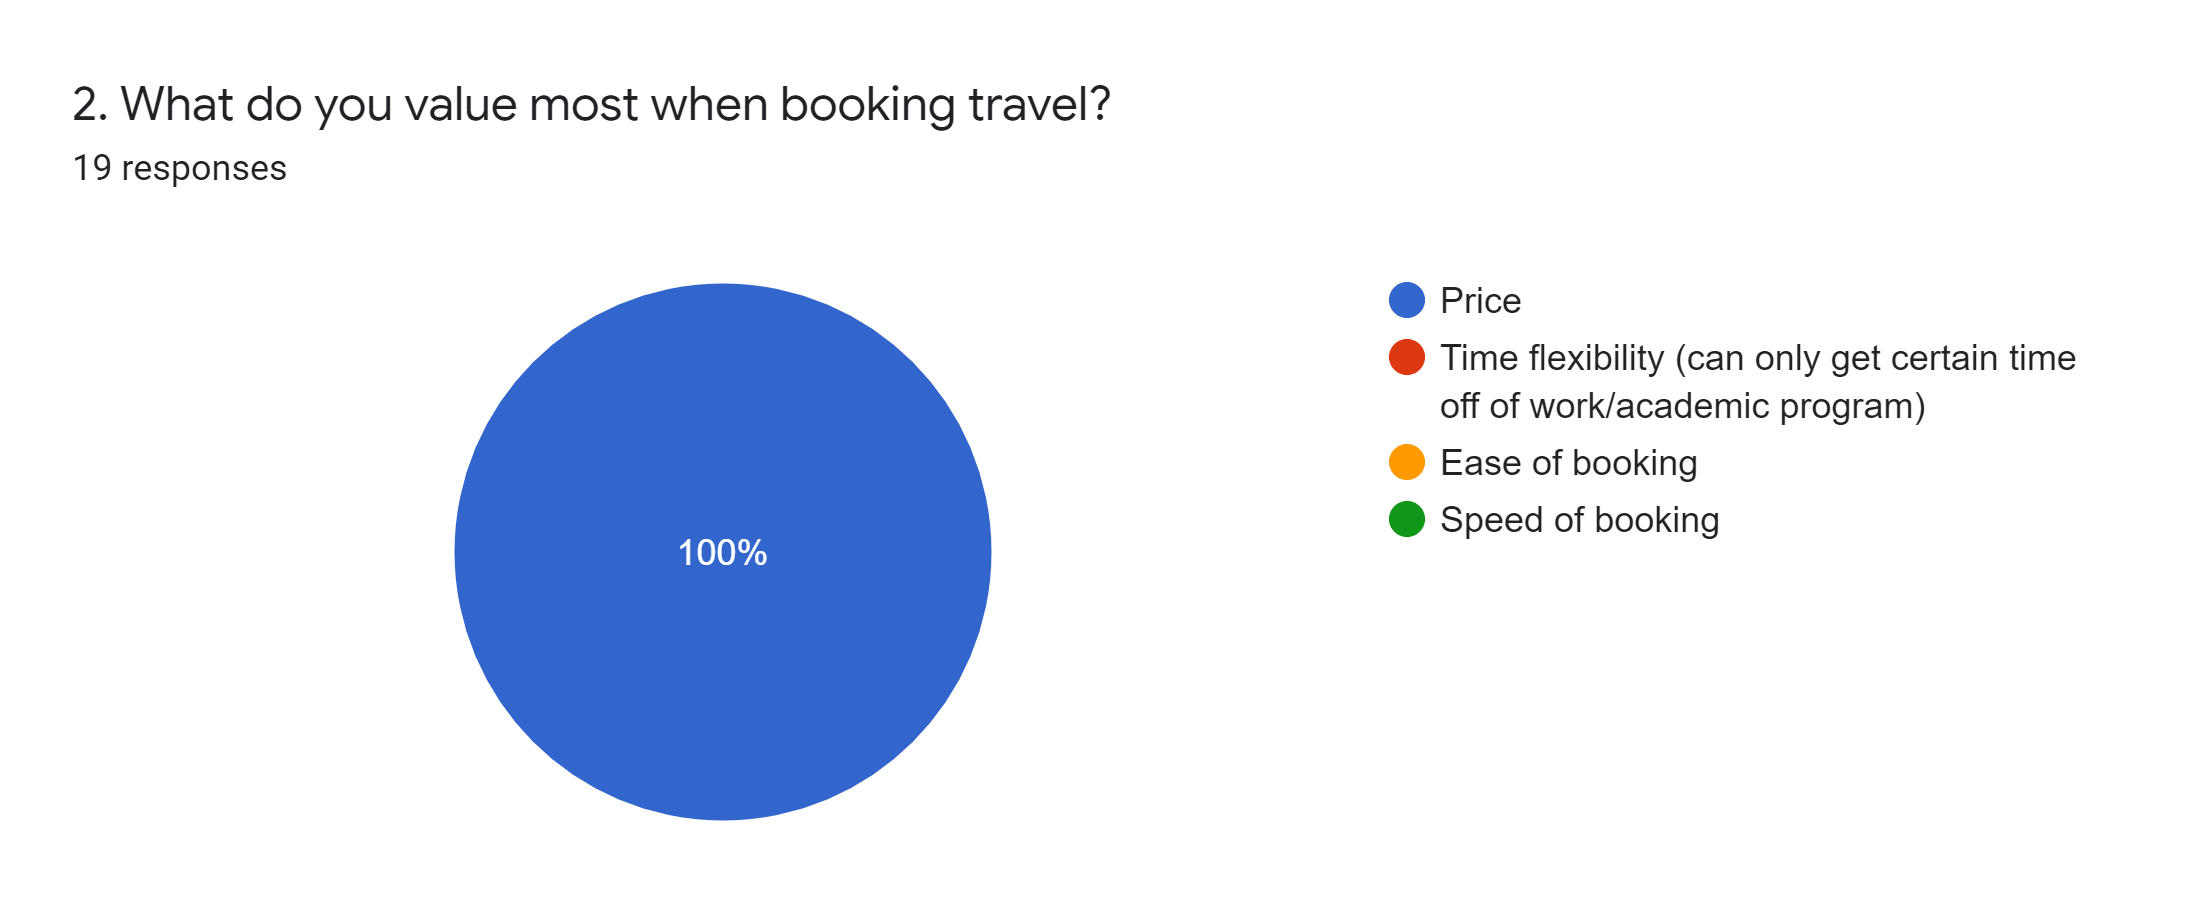
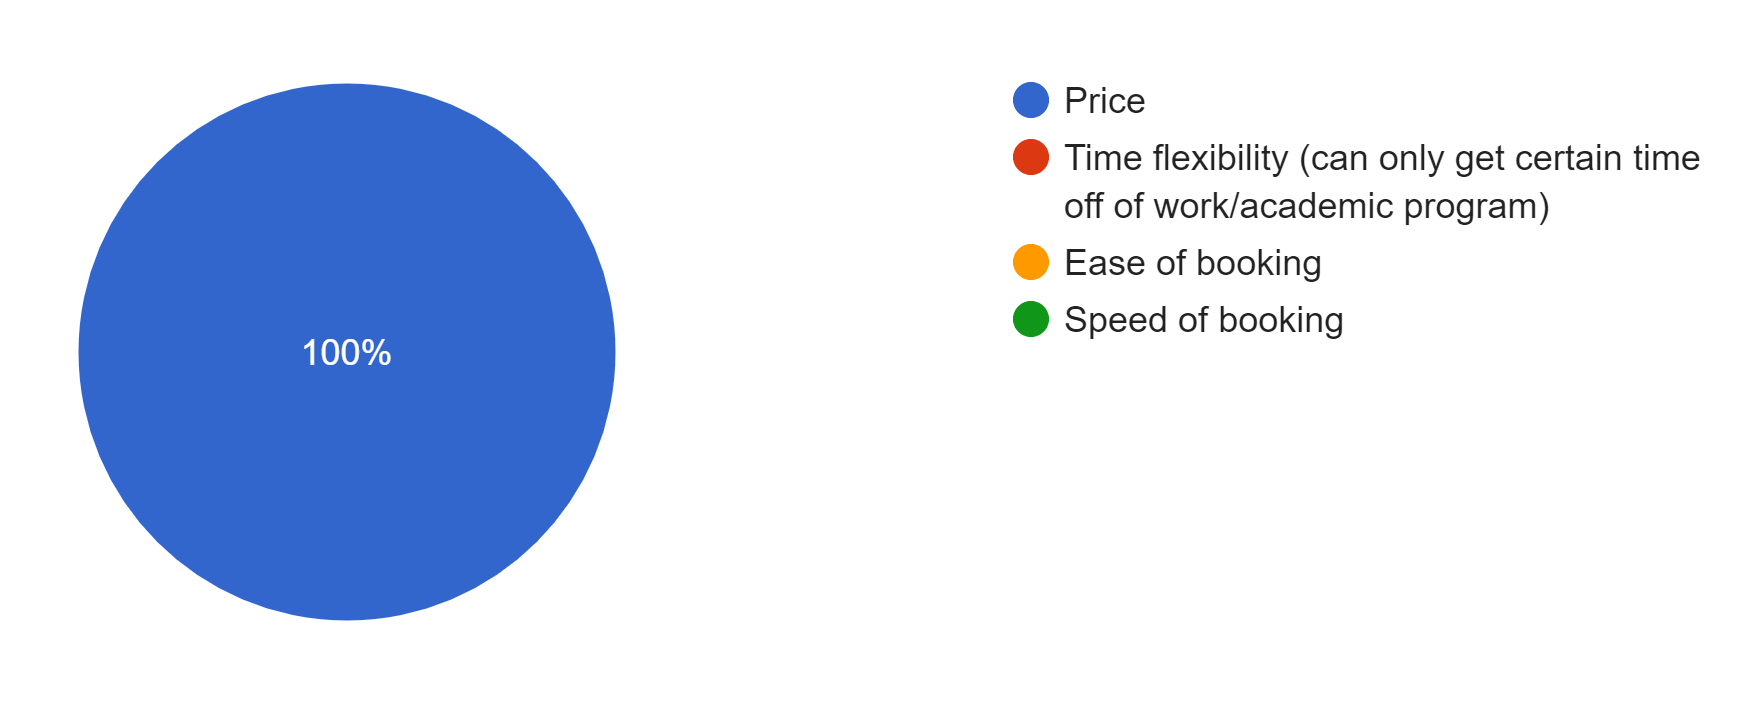
user research added

Changed region(s): [[0.0312, 0.0922, 0.4991, 0.8911], [0.5615, 0.2765, 0.9671, 0.5838], [0.5615, 0.1229, 0.9671, 0.2458]]

diff --git a/case1.html b/case1.html
@@ -91,14 +91,25 @@
         <p>Booking flights with American Airlines is tedious due to the amount of options available and the distracting content on the landing page that clutters the booking area with advertisements and unnecessary popups.<br><br>
             I created a more streamlined booking process for American Airlines travelers that minimizes clutter and highlights features that promote booking travel easily.</p><br>
     </div>
+
+    <div class="user-research">
+    <h3><b>Research:</b></h3>
+    <div class="research">
+        <p><b>User Research: </b>I surveyed a group in my target group ages 18 - 28 to gather information on their travel preferences and what they value about the process, and the relevant data is displayed below.</p>
+        <p>1. Outside of the pandemic (in normal times), how many times do you travel per year? (travel can include out of state/country)</p>
+        <img class="SurveyResults" src="imgs/survey1.png" alt="UserSurvey1" style="width:550px; height:250px" ;><br><br>
+        <p>2. What do you value most when booking travel? </p>
+        <img class="SurveyResults" src="imgs/survey2.png" alt="UserSurvey2" style="width:600px; height:250px" ;>
+        <h4><b>Key Takeaways</b></h4>
+        <ul>
+            <li>68% of participants traveled 5 or more times per year, and 26% traveled 4 times a year, making this target audience a good sample group for testing the redesign of this travel booking product</li>
+            <li>100% of users valued prices most when booking travel, so discounted choices should be central throughout the redesigned site</li>
+        </ul>
+    </div>
+</div>
+
     <div class="competitive-analysis">
-        <h1><b>Research</b></h1>
-        <h1>User Research:</h1>
-        <h3>I surveyed a group in my target group ages 18 - 28 to gather information on their travel preferences and what they value about the process, and the relevant data is displayed below.</h3>
-        <img class="SurveyResults" src="imgs/#.png" alt="UserSurvey1" style="width:400px; height:250px" ;><br><br><br>
-        <img class="SurveyResults" src="imgs/#.png" alt="UserSurvey2" style="width:400px; height:250px" ;><br><br><br>
-        <h1>Competitive Analysis:</h1>
-        <h3>I reviewed 3 different competitors to American Airlines to see how they structure their landing pages differently.</h3>
+        <p><b>Competitive Analysis: </b>I reviewed 3 different competitors to American Airlines to see how they structure their landing pages differently.</p><br>
         <div class="row">
             <div class="column">
                 <img class="Competitors" src="imgs/mounteddelta.png" alt="Delta Airlines Landing Page" style="width:400px; height:250px" ;><br><br><br>
@@ -108,7 +119,7 @@
                  <img class="Competitors" src="imgs/mountedexpedia.png" alt="Airbnb Landing Page" style="width:400px; height:250px" ;>
             </div>
             <div class="column">
-                <h2><b>Key Takeaways: Delta</b></h2>
+                <h2><b>Delta</b></h2>
                 <ul>
                     <li>The landing page is busy, and includes information on a variety of topics</li>
                     <li>The booking area is cleaner and more straightforward for users, and is also located at the top so it is the first thing they see</li>
@@ -116,21 +127,21 @@
                     <li>An image of confused travelers is displayed</li>
                 </ul>
 
-                <h2><b>Key Takeaways: American</b></h2>
+                <h2><b>American</b></h2>
                 <ul>
                     <li>The landing page is busy due to flashing images, but includes a good amount of white space</li>
                     <li>The booking area has a lot of information present within it</li>
                     <li>The flashing images are often of enticing destinations</li>
                     <li>The rewards program is mentioned 3 times on the top part of the landing page</li>
                 </ul>
-                <h2><b>Key Takeaways: Airbnb</b></h2>
+                <h2><b>Airbnb</b></h2>
                 <ul>
                     <li>The landing page is clean, and the booking area sits at the top so it is the first thing users see</li>
                     <li>There are fewer tabs in the navigation bar compared to the Delta site</li>
                     <li>Attractive background image that inspires travel</li>
                     <li>Navigation bar only features a few options, making the overall landing page appear less cluttered</li>
                 </ul>
-                <h2><b>Key Takeaways: Expedia</b></h2>
+                <h2><b>Expedia</b></h2>
                 <ul>
                     <li>Comparitively clean landing page</li>
                     <li>Many tabs in the booking area, but not an overabundance of navigation bar tabs</li>
@@ -142,20 +153,9 @@
     </div>
 
     <div class="user-interviews">
-        <h1><b>User Personas</b></h1>
-        <p>I interviewed 10 people across the United States, and will highlight my findings from the 2 interviewees who fit the target audience I designed for through my user personas.</p>
-        <div class="circle"></div>
-        <div class="circle2"></div>
-        <div class="bullets">
-            <h3><b>Key Takeaways</b></h3>
-            <ul>
-                <li>Users wanted more interactive components on the site</li>
-                <li>Users wanted less unnecessary components to have to sift through when booking travel</li>
-                <li>Users wanted more emphasis on the areas they cared about (i.e. itinerary change, reimbursements, and cancellations)</li>
-            </ul>
-            <div class="circle5"></div>
-            <div class="circle6"></div>
-        </div>
+        <h3><b>User Personas:</b></h3>
+        <p>Using my findings from my user research and survey, I designed two user personas fitting the user base this product is redesigned for.</p>
+        
     </div>
     <div class="UserPersonaSection">
         <br>
@@ -245,6 +245,19 @@
             </div>
         </div>
     </div>
+    <div class="circle"></div>
+        <div class="circle2"></div>
+        <div class="bullets">
+            <h4><b>Key Takeaways</b></h4>
+            <ul>
+                <li>Users wanted more interactive components on the site</li>
+                <li>Users wanted less unnecessary components to have to sift through when booking travel</li>
+                <li>Users wanted more emphasis on the areas they cared about (i.e. itinerary change, reimbursements, and cancellations)</li>
+            </ul>
+            <div class="circle5"></div>
+            <div class="circle6"></div>
+        </div>
+<!--------Process--------->
 
     <div class="process">
     <h1>Process</h1>

diff --git a/case1.css b/case1.css
@@ -188,13 +188,27 @@ p {
     text-align: left;
 }
 
-.competitive-analysis {
-    width: 100%;
+.user-research {
+    margin-bottom: 50px;    
 }
 
-.competitive-analysis h1 {
-    padding-bottom: 50px;
-    color: #e8c5e0;
+
+.user-research h3 {
+    padding-left: 100px;
+}
+
+.research {
+    padding-left: 100px;
+    padding-top: 25px;
+    text-align: left;
+    padding-right: 100px;
+}
+
+.research li {
+    width: 80%;
+}
+
+.competitive-analysis p {
     padding-left: 100px;
     padding-right: 100px;
 }
@@ -214,6 +228,10 @@ p {
     margin-left: 100px;
     padding: 2px;
     border:2px solid: #e8c5e0;
+}
+
+.SurveyResults {
+    margin-left: 100px;
 }
 
 .item1 {
@@ -260,7 +278,6 @@ p {
 .grid-container p {
     font-size: 12px;
     margin-left: 10px;
-
 }
 
 .grid-container>div {
@@ -270,27 +287,20 @@ p {
     font-size: 15px;
 }
 
-.UserPersonaSection h1 {
-    color: #e8c5e0;
-}
-
 .user-interviews {
     display: block;
     margin: auto;
     margin-top: 50px;
 }
 
-.user-interviews h1 {
-    text-align: center;
-    color: #e8c5e0;
-    font-size: 45px;
+.user-interviews h3 {
+    text-align: left;
+    margin-left: 100px;
 }
 
 .user-interviews p {
-    font-size: 25px;
-    font-style: italic;
-    text-align: center;
-    margin-top: 25px;
+    text-align: left;
+    margin-top: 50px;
     margin-left: 100px;
     margin-right: 100px;
 }
